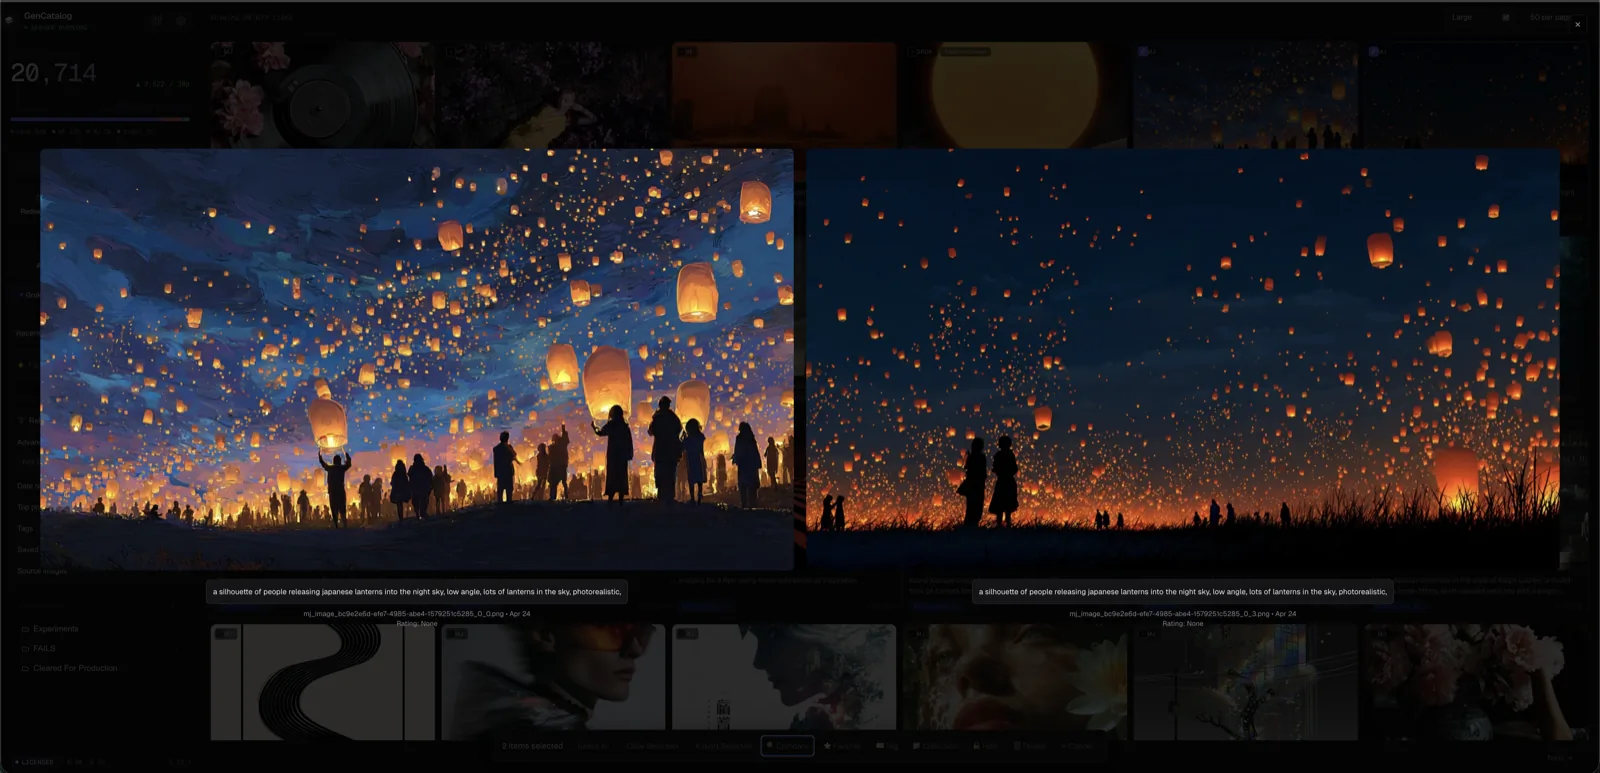
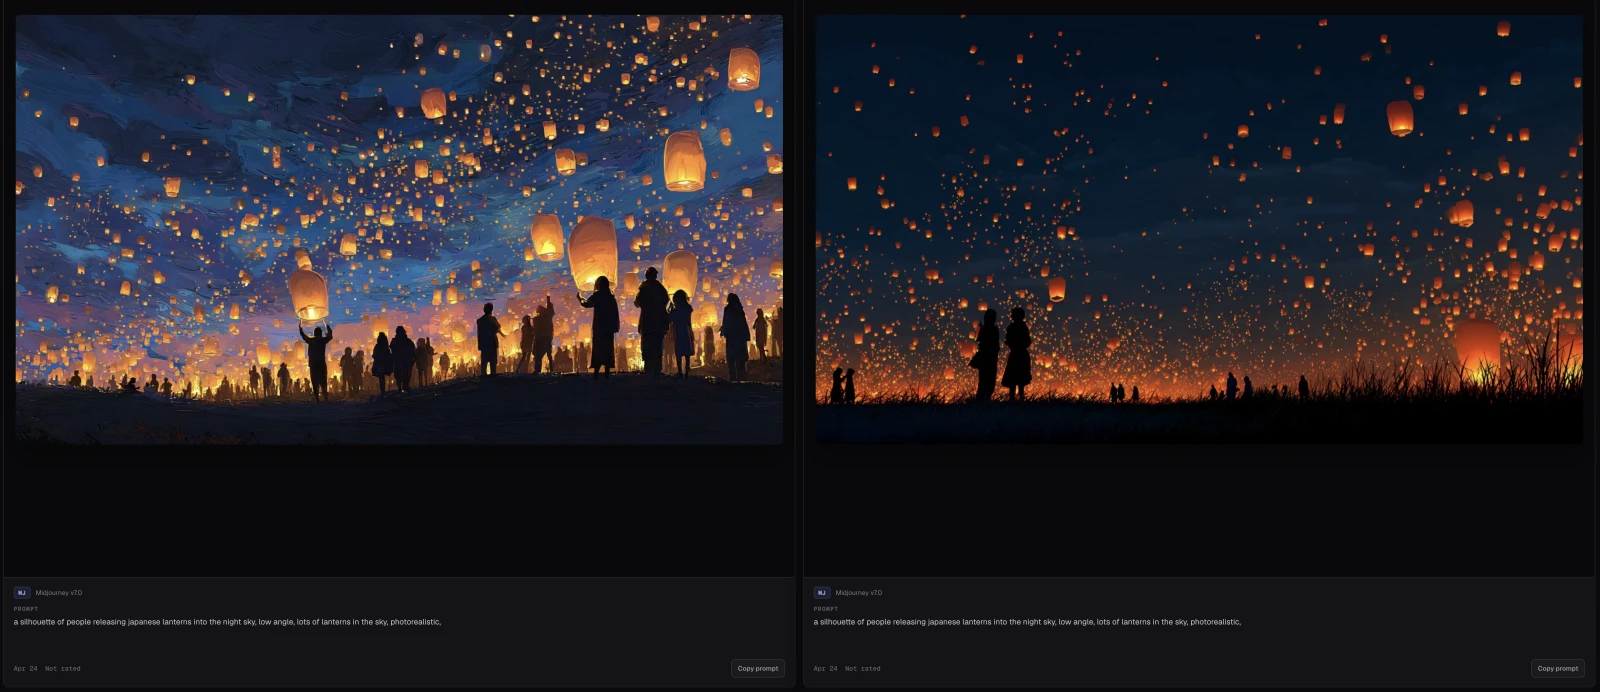
Homepage: refresh comparison screenshot

diff --git a/index.html b/index.html
@@ -365,7 +365,7 @@
               <p>Pin two generations next to each other. Compare prompts, models, seeds, settings, notes, and source context without switching windows.</p>
             </div>
             <div class="capability-media capability-media-wide">
-              <img src="uploads_v2/CompareView-1600.webp" alt="GenCatalog comparing two AI generations and their recipes side by side" width="1600" height="773" loading="lazy" decoding="async">
+              <img src="uploads_v2/CompareView-1600.webp" alt="GenCatalog comparing two AI generations and their recipes side by side" width="1600" height="692" loading="lazy" decoding="async">
             </div>
           </article>
 
